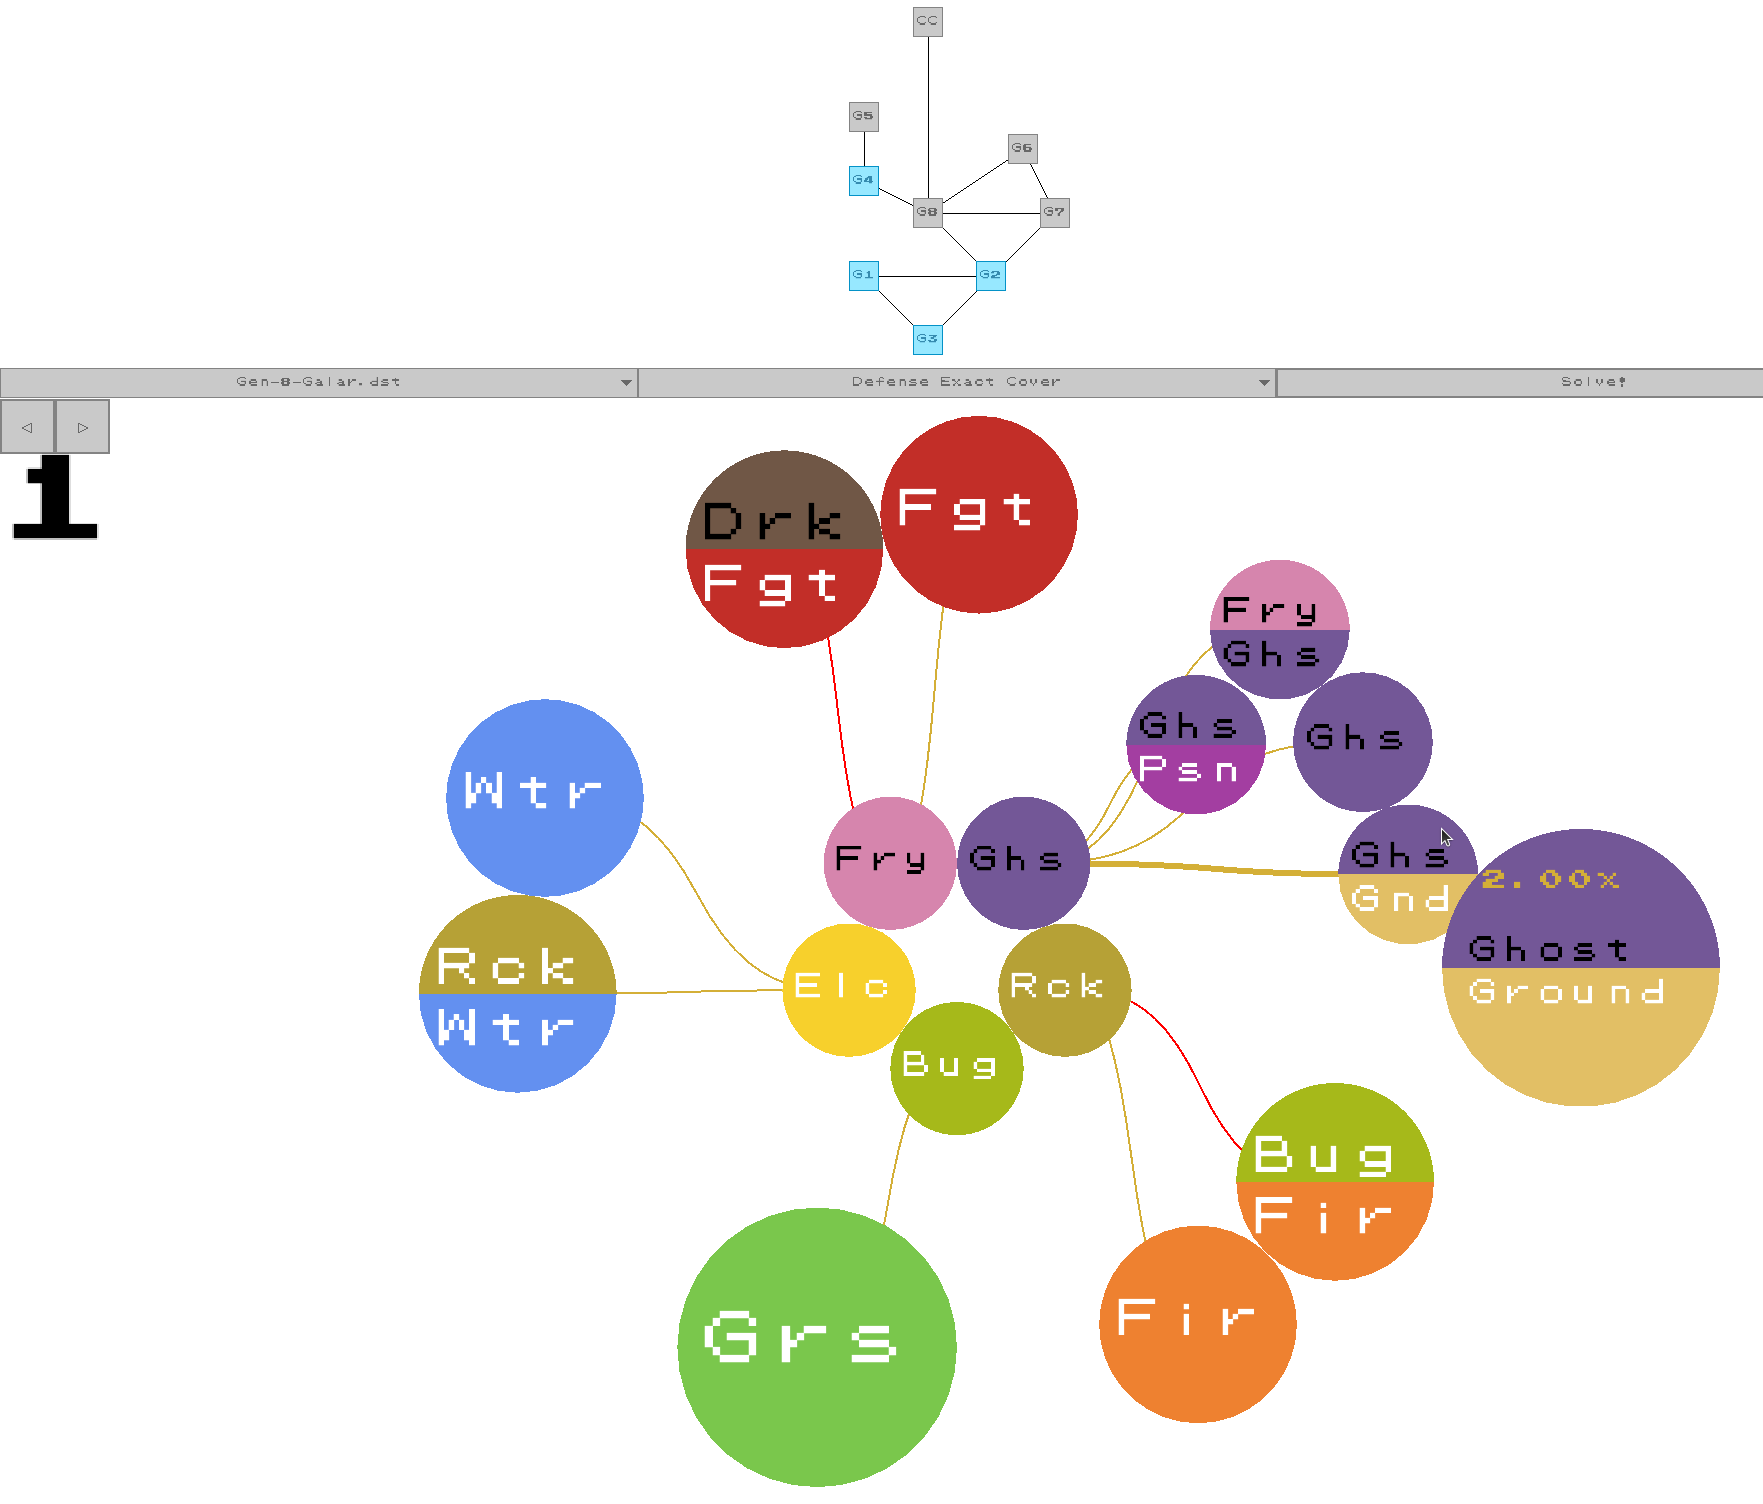
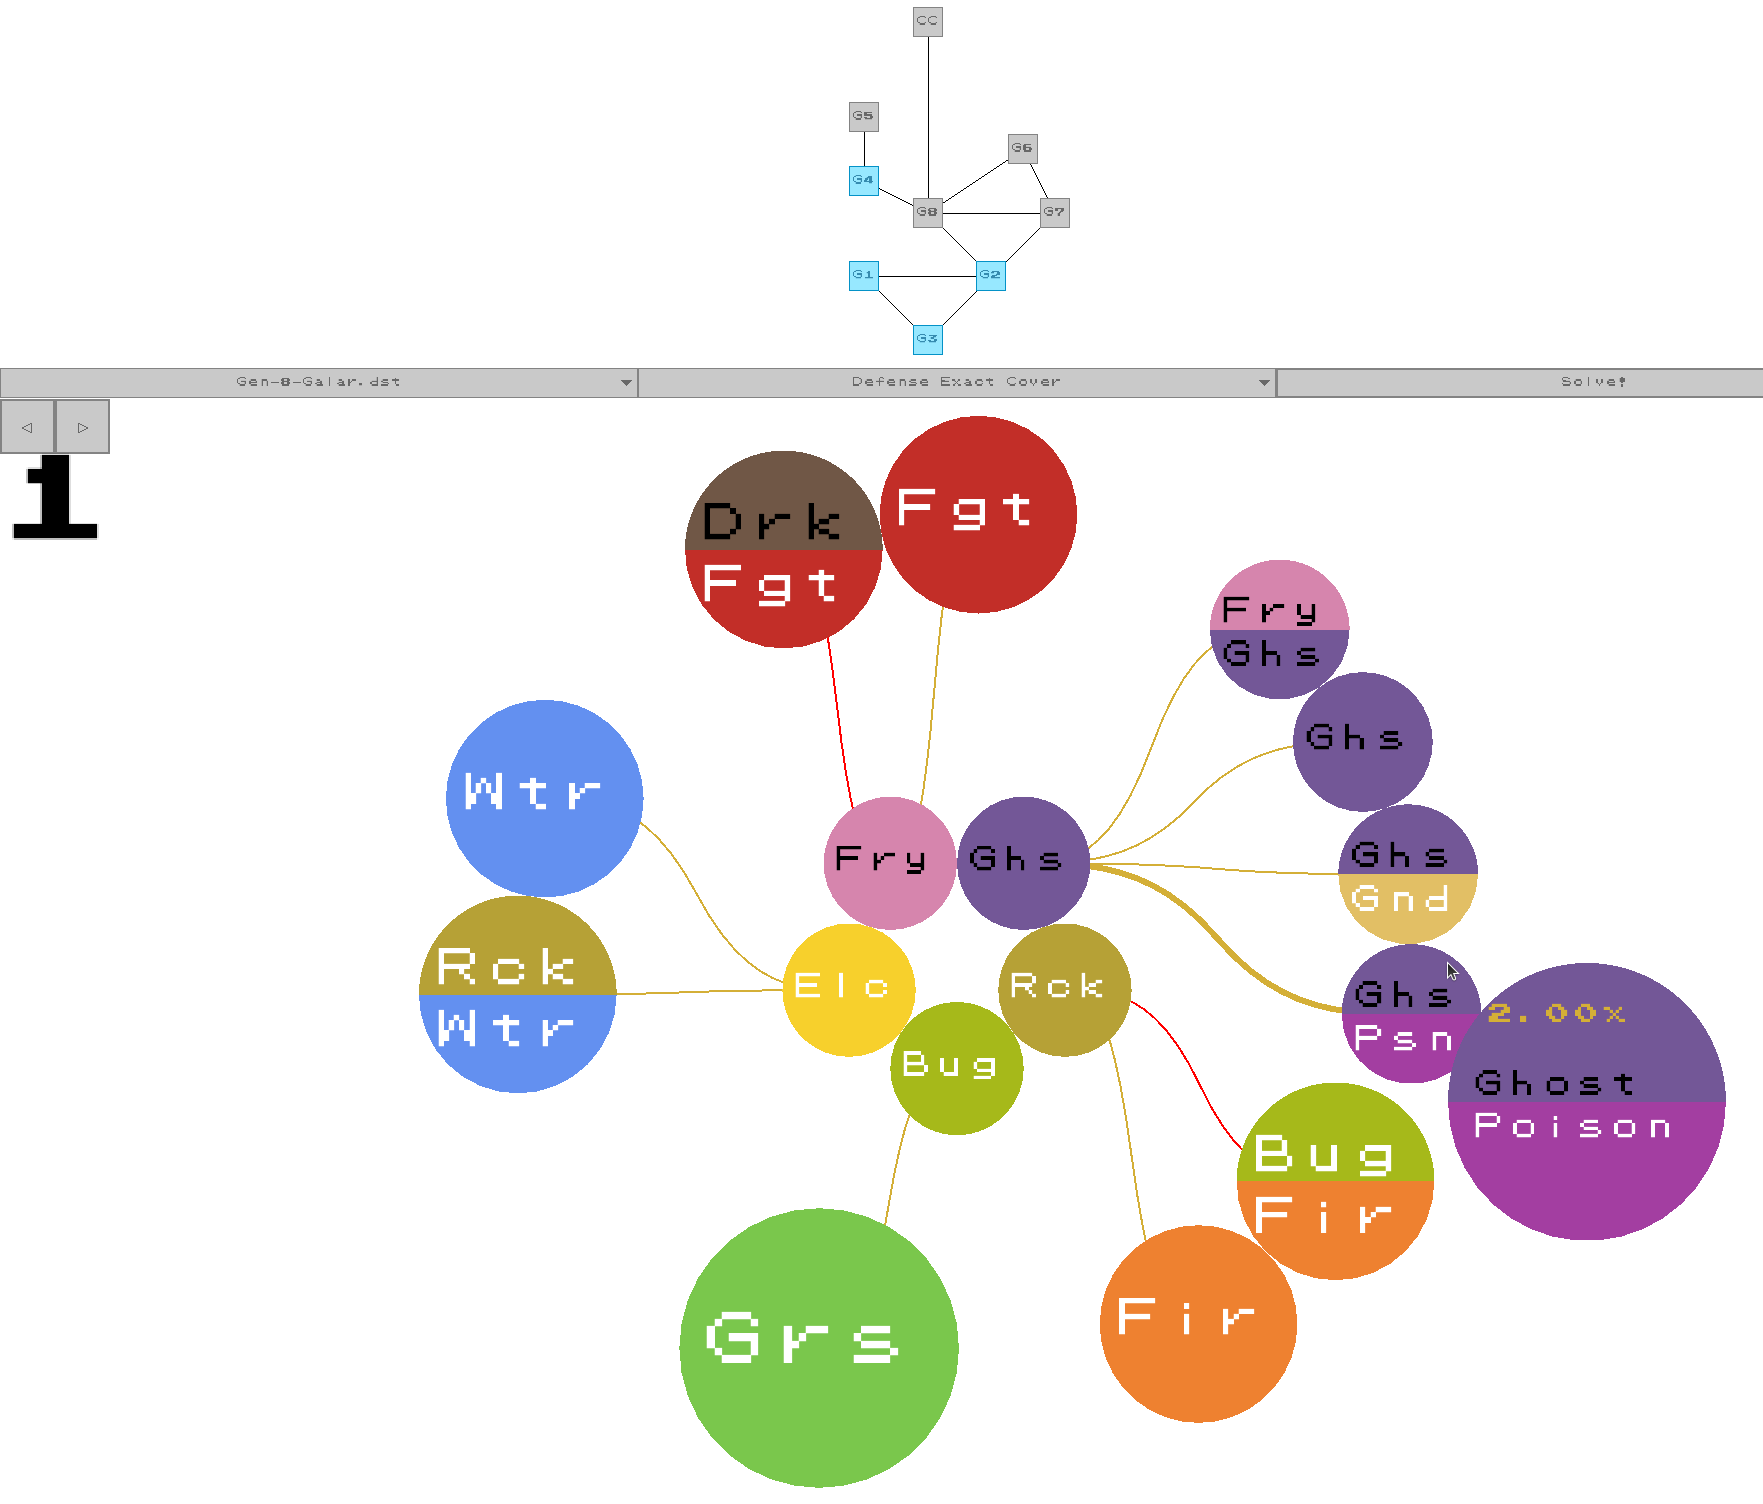
all math corrected and proved for angle steps

diff --git a/demos/pokemon_gui.cc b/demos/pokemon_gui.cc
@@ -266,6 +266,9 @@ class Generation {
 /// Any internal tables or state should be constant and static so that only
 /// one instance exists for the program of that data.
 ///
+/// Try to maintain the constraint that all member functions are static and
+/// there are not state data member variables.
+///
 ///////////////////////////////////////////////////////////////////////////////
 class Graph_draw {
   public:
@@ -1073,10 +1076,20 @@ Graph_draw::draw_graph_cover(
             = sqrt((theta_segment_angle * annulus_radius_squared_difference)
                    / (14.0F * n));
         float const theta_end = cur_theta + theta_segment_angle;
-        float radius = outer_ring_annulus_radius - (covered_node_radius * 0.6F);
-        float theta
+        // Conceptually the radius is our row and the theta angle is our col
+        // that helps determine where the next node should be drawn.
+        float radius_row
+            = outer_ring_annulus_radius - (covered_node_radius * 0.6F);
+        // This starting column is nudged inside our angle allotment by one
+        // covered node circle radius using right triangle identity
+        //
+        // theta_col = 2 * asin(opposite / hypotenuse)
+        //
+        // where the right triangle has formed at 1/2 the length of a cord
+        // equal to the radius of our covered node.
+        float theta_col
             = cur_theta
-              + (std::asin((0.5F * (2.0F * covered_node_radius) / radius)));
+              + (2.0F * std::asin((covered_node_radius * 0.5F) / radius_row));
         for (Dx::Pokemon_links::Poke_link const *iter
              = Dx::items_for_begin(dlx_solver, inner_type);
              iter != Dx::items_for_end();
@@ -1086,24 +1099,32 @@ Graph_draw::draw_graph_cover(
                 = Dx::item_resistance_from(dlx_solver, iter);
             draw_fn(inner_ring_node,
                     Vector2{
-                        .x = (std::cos(theta) * radius) + center_x,
-                        .y = (std::sin(theta) * radius) + center_y,
+                        .x = (std::cos(theta_col) * radius_row) + center_x,
+                        .y = (std::sin(theta_col) * radius_row) + center_y,
                     },
                     covered_node_radius, inner_type, cur_covered);
-            // We are iterating from the outer perimeter of the pie slice
-            // toward the center in an arc. Step clockwise by calculating the
-            // angle from the distance and step inward by reducing the radius.
-            float const angle_step
-                = (2.0F
-                   * std::asin((0.5F * (2.0F * covered_node_radius) / radius)));
-            theta += angle_step;
-            if (theta + angle_step > theta_end)
+            // Here we step by 2 covered node radii so that nodes don't overlap
+            // with the right triangle identity
+            //
+            // theta_step = 2 * asin(opposite / hypotenuse)
+            //
+            // where the right triangle has formed at 1/2 the length of the
+            // desired cored, in this case one radius of a covered node. Then
+            // we step by two of those angle increments so that nodes do not
+            // overlap.
+            float const angle_of_node_radius
+                = std::asin(covered_node_radius / radius_row);
+            theta_col += 2.0F * angle_of_node_radius;
+            // Double check that drawing a new circle at this position would
+            // not encroach on the next segments allotted space.
+            if (theta_col + angle_of_node_radius > theta_end)
             {
-                radius -= (2.0F * covered_node_radius);
+                radius_row -= (2.0F * covered_node_radius);
                 // Reset to the starting angle of the pie slice.
-                theta = cur_theta
-                        + (std::asin(
-                            (0.5F * (2.0F * covered_node_radius) / radius)));
+                theta_col = cur_theta
+                            + (2.0F
+                               * std::asin((covered_node_radius * 0.5F)
+                                           / radius_row));
             }
         }
     };
